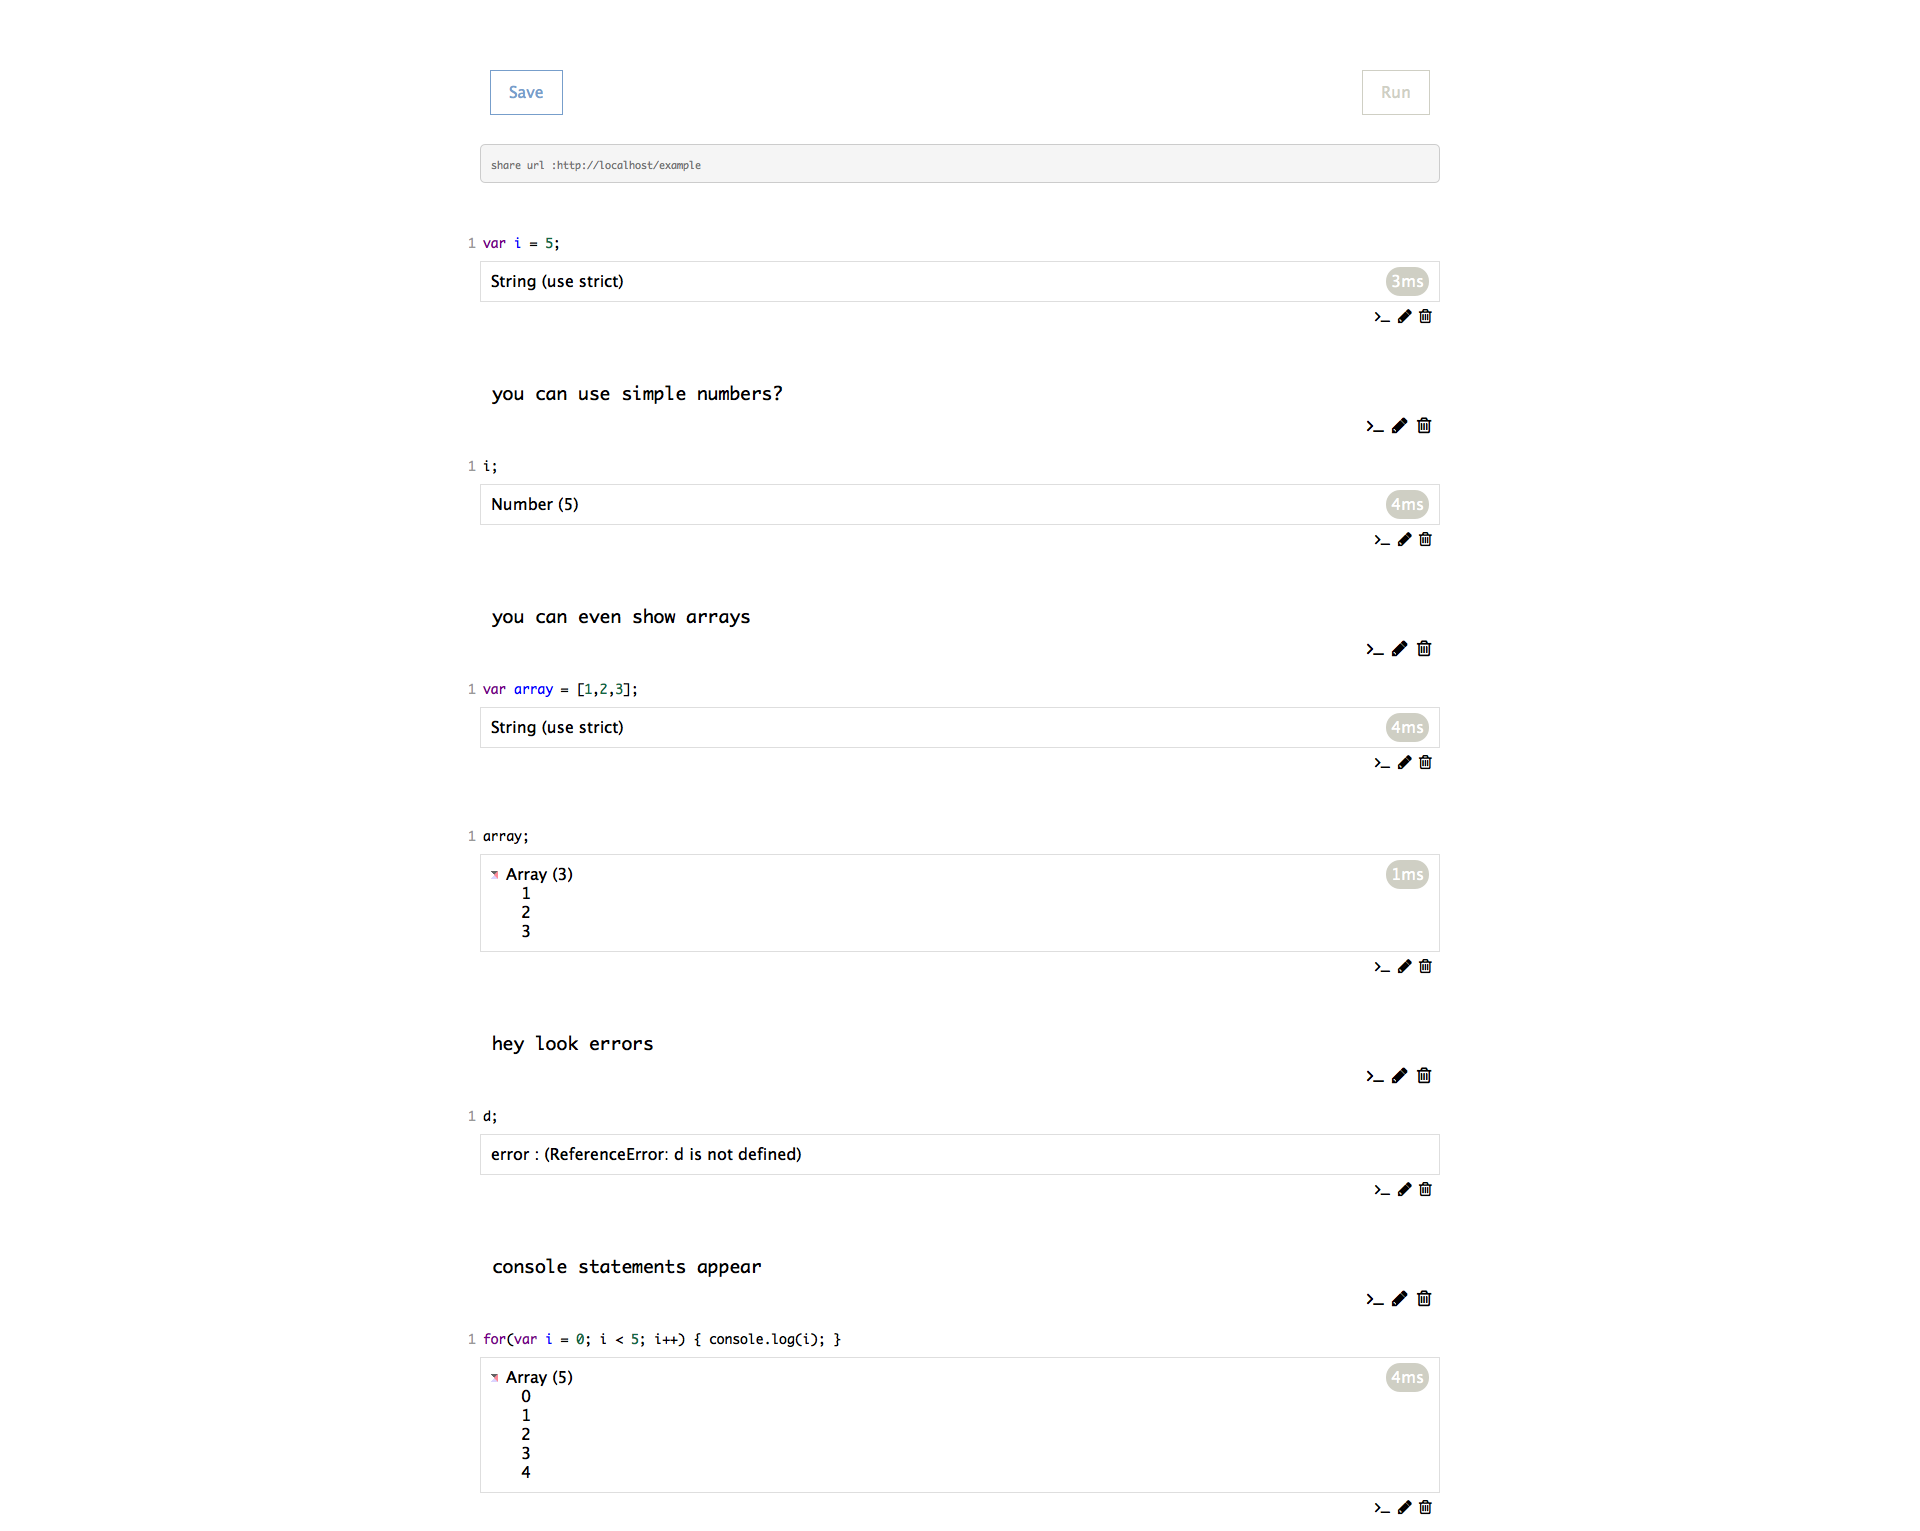
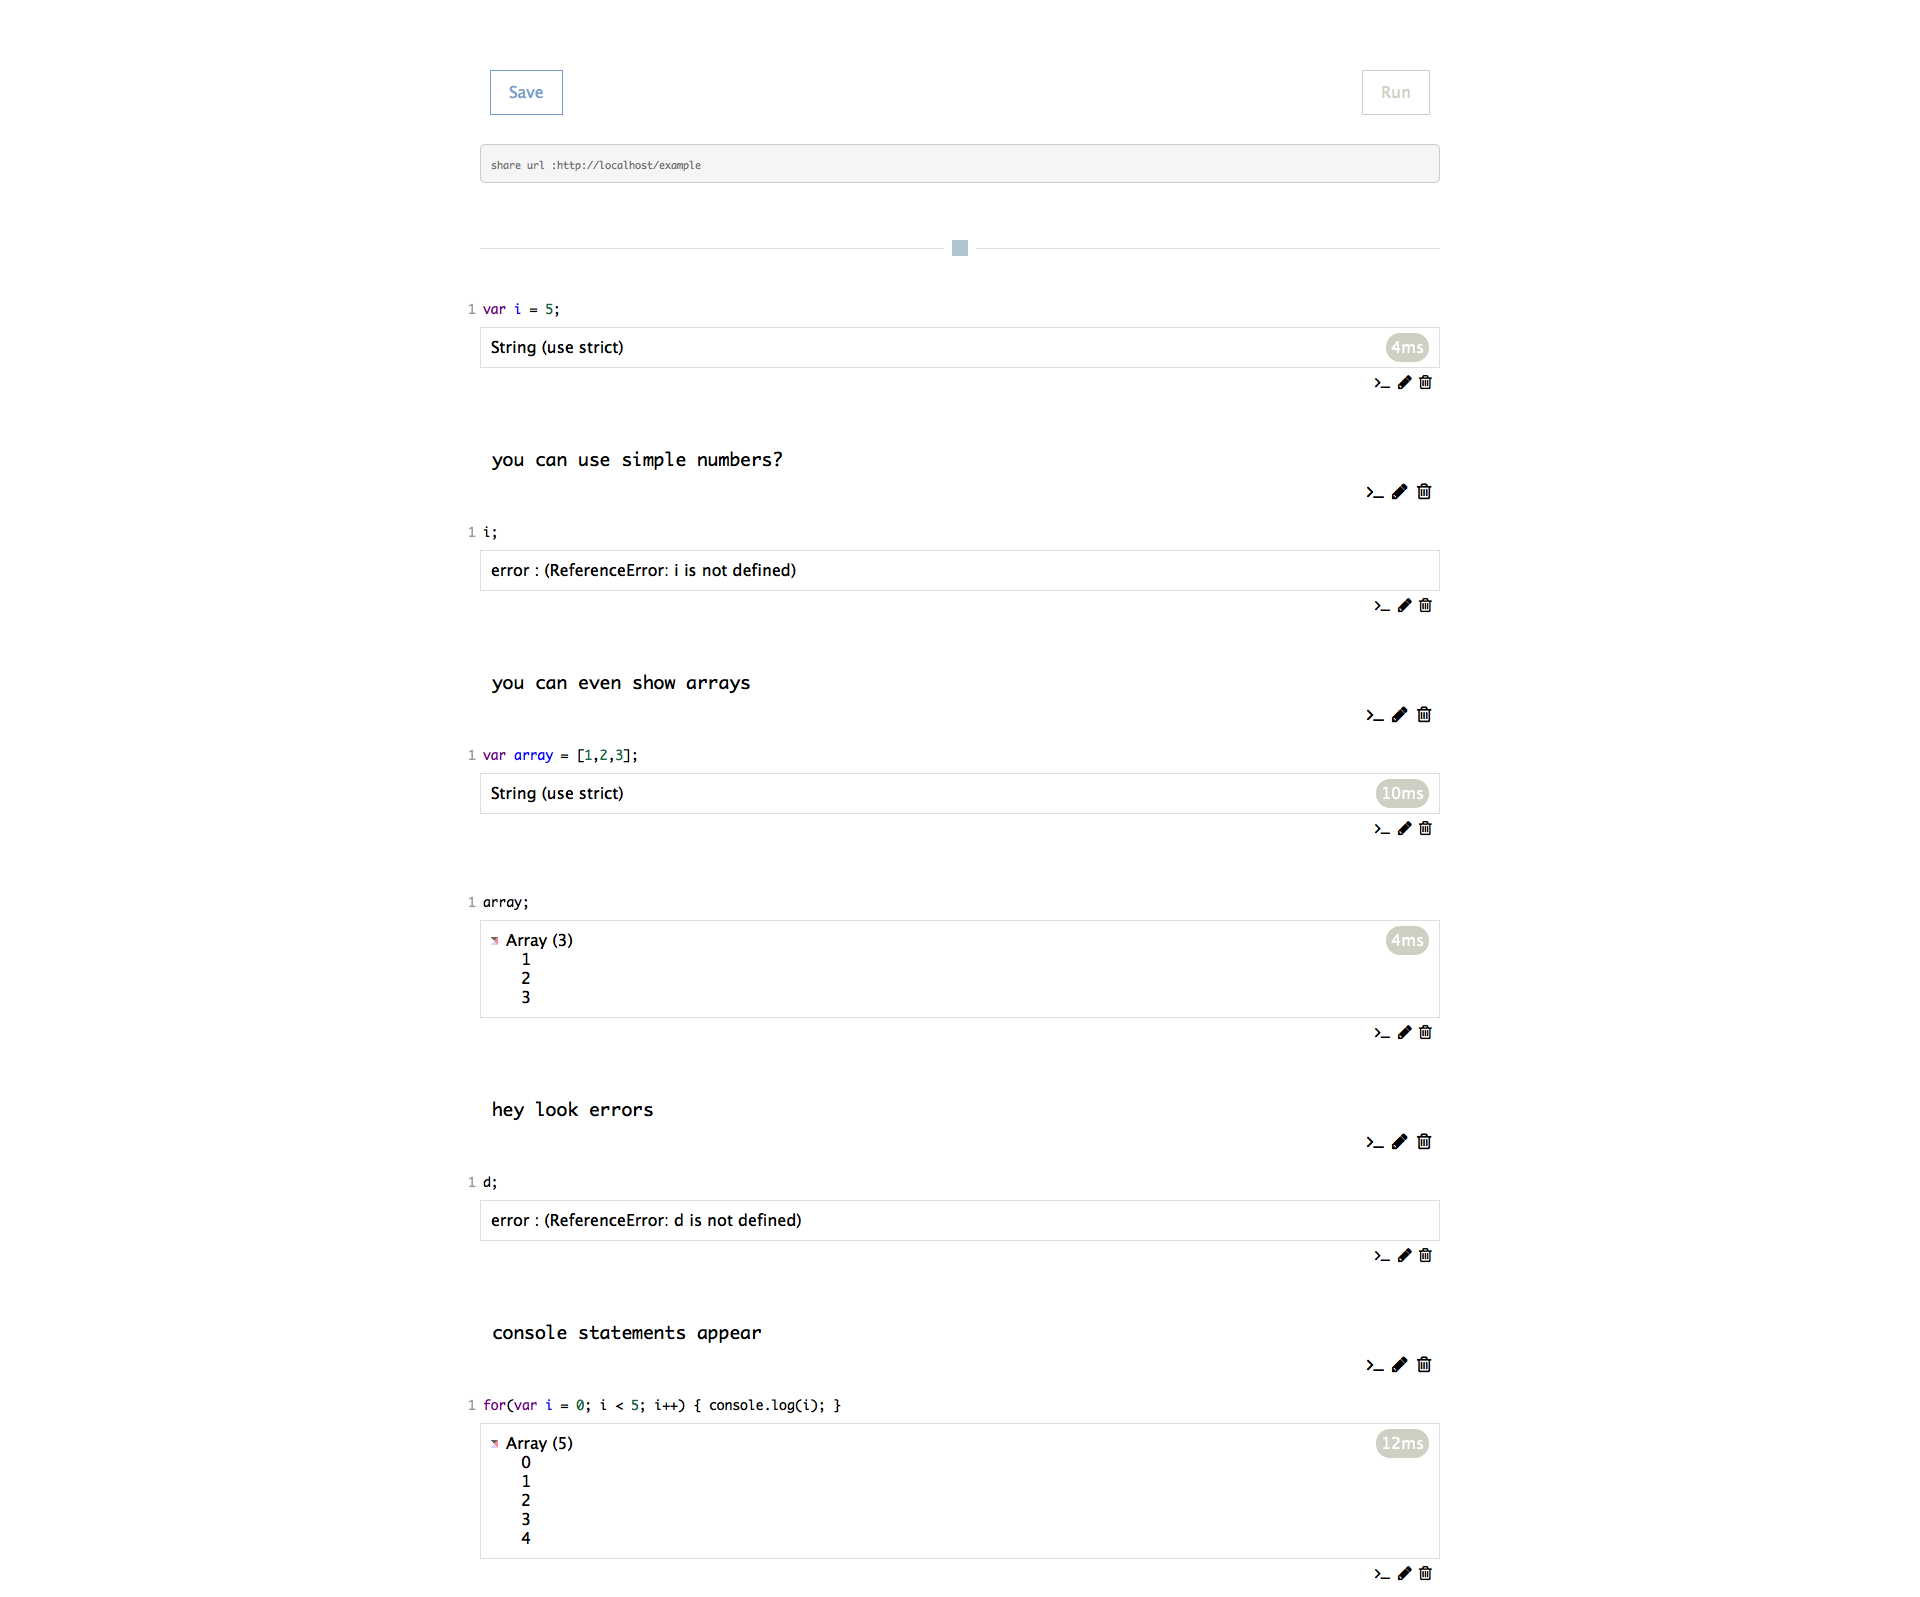
adds divider line to examples page updates screenshots

diff --git a/views/assets/app.css b/views/assets/app.css
@@ -1,3 +1,23 @@
+hr {
+    display: block;
+    border: 0 solid #e0dedf;
+    border-bottom-width: 1px;
+    margin: 65px auto 10px auto;
+    max-width: 100%;
+    position: relative
+}
+hr:before {
+    content: '';
+    display: block;
+    width: 1em;
+    height: 1em;
+    background-color: #afc4ce;
+    position: absolute;
+    bottom: 0;
+    left: 50%;
+    margin: -.5em;
+    box-shadow: 0 0 0 0.5em white;
+}
 .CodeMirror {
     height: auto;
     margin-left:-30px;
